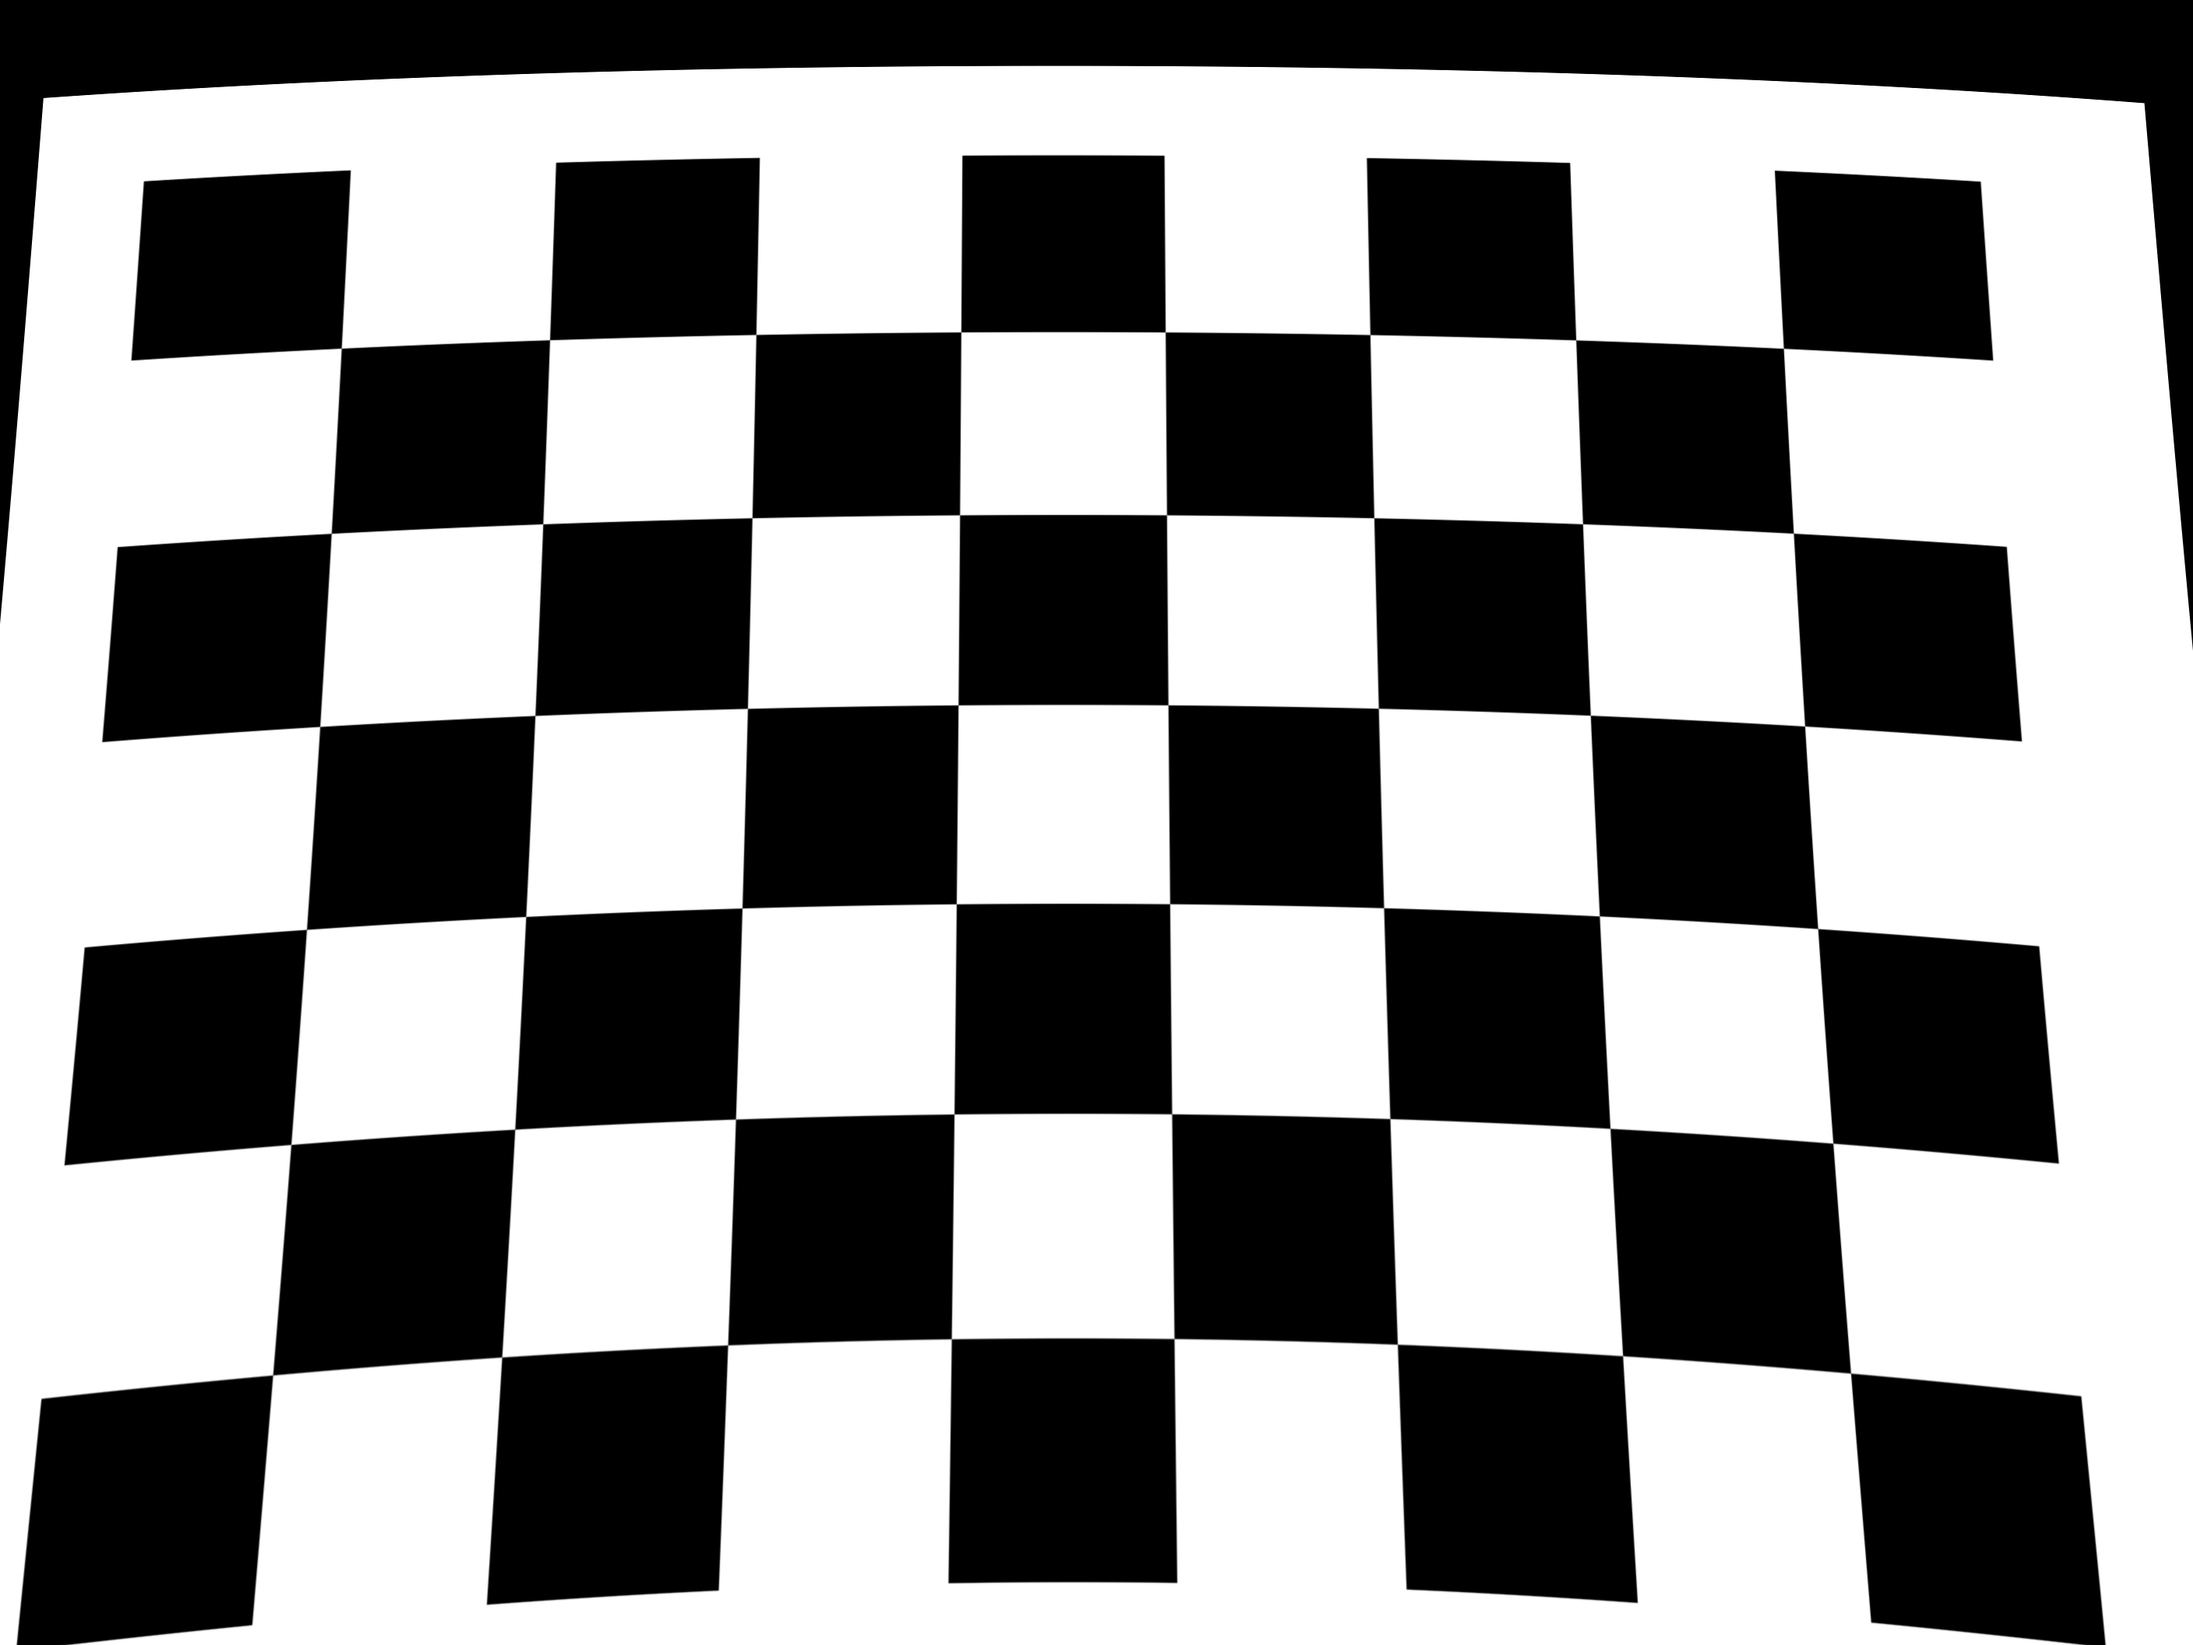
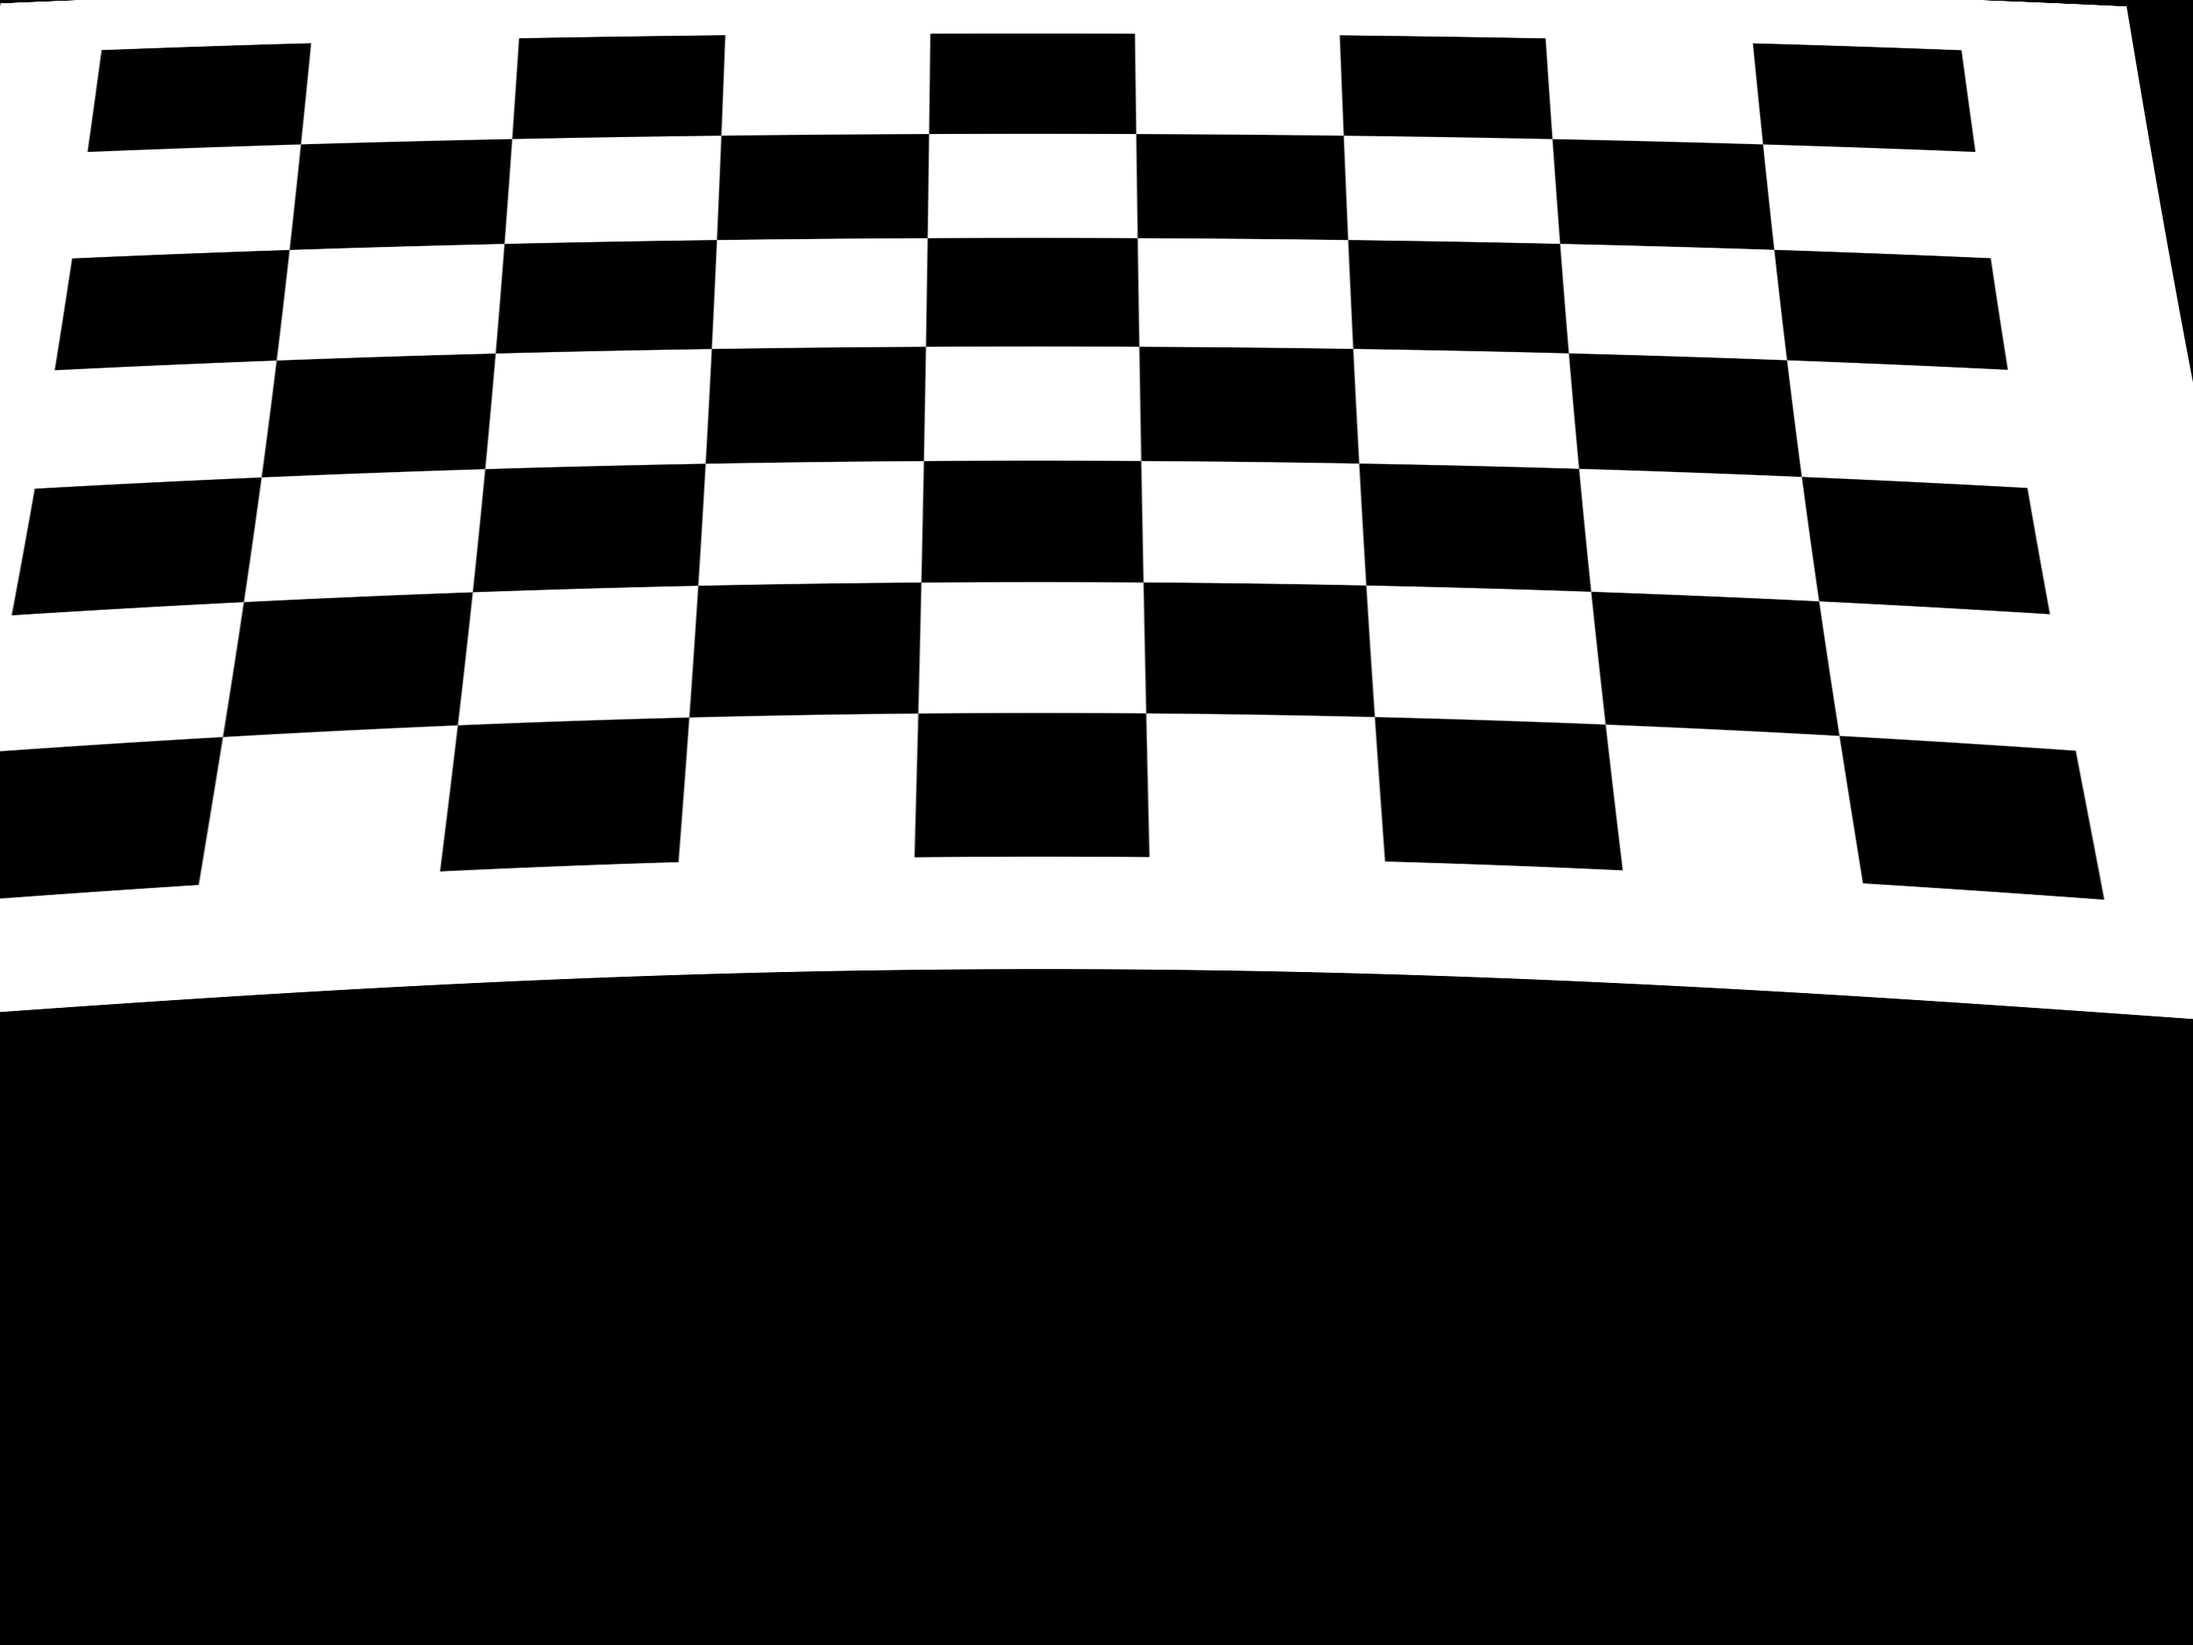
add final code for part 1

diff --git a/final_project/python/assess_uncertainty.py b/final_project/python/assess_uncertainty.py
@@ -29,8 +29,10 @@ if __name__ == '__main__':
 
     image = "../data/calibration/checkerboard.png"
     
-
     camera_matrix = np.array(((2359.40946, 0, 1370.05852), (0, 2359.61091, 1059.63818), (0, 0, 1)))
+
+    width = 100 
+    height = 10 
 
     for i in range(N):
             
@@ -41,15 +43,19 @@ if __name__ == '__main__':
         p2 = np.random.normal(-0.00419, 0.00014)
 
         distortion_coefficients = np.array((k1, k2, k3, p1, p2))
+        new_camera_matrix, _ = cv.getOptimalNewCameraMatrix(
+            camera_matrix, distortion_coefficients, (width, height), 1, (width, height)
+        )
 
         I = cv.imread(image, cv.IMREAD_GRAYSCALE)
+        IU = np.empty_like(I)
 
-        dst = cv.undistort(I, camera_matrix, distortion_coefficients, camera_matrix)
+        _ = cv.undistort(src=I, dst=IU, cameraMatrix=camera_matrix, distCoeffs=distortion_coefficients, newCameraMatrix=new_camera_matrix)
 
         # cv.imshow("distorted image with sampled distortion coefficients", dst)
         # cv.waitKey()
 
-        cv.imwrite(f"../data/distortion_sample/sample{i:03d}.png", dst) 
+        cv.imwrite(f"../data/distortion_sample/sample{i:03d}.png", IU) 
 
 
 
